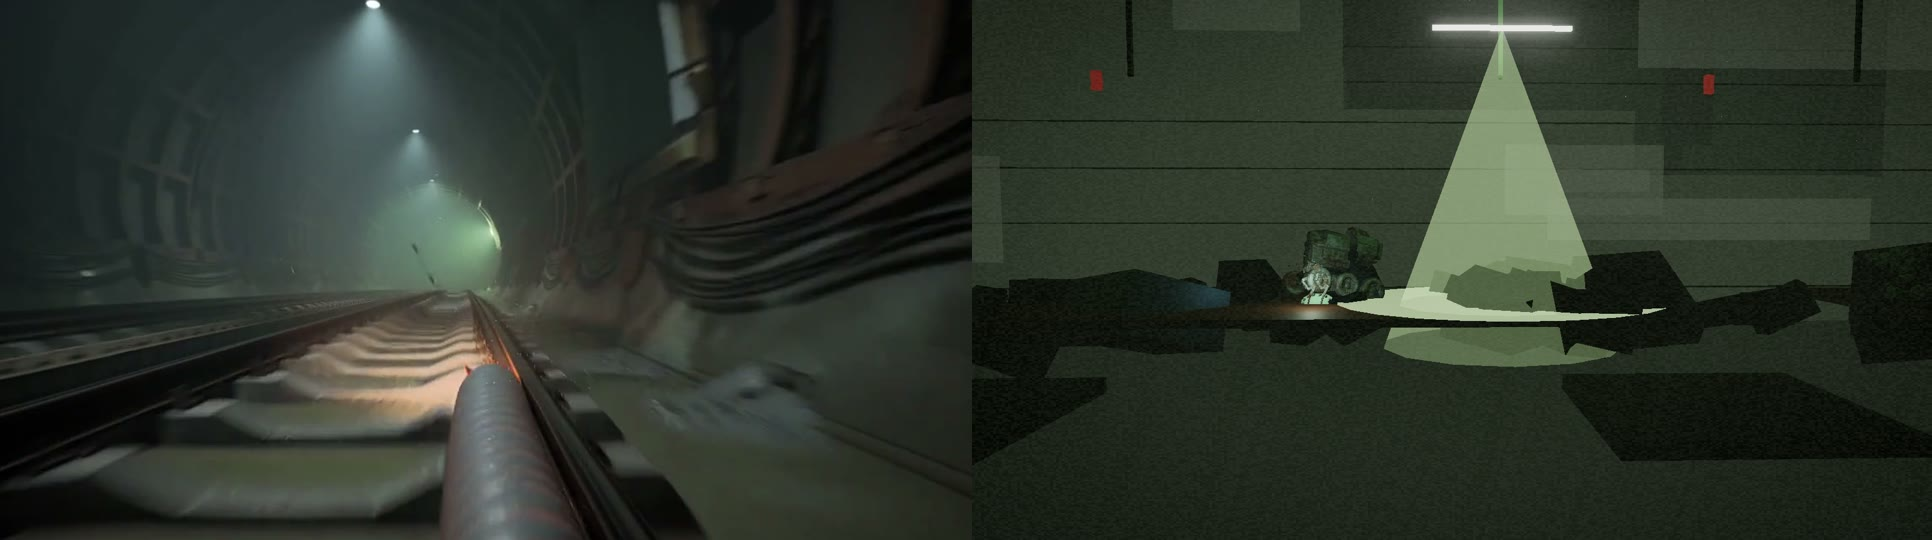
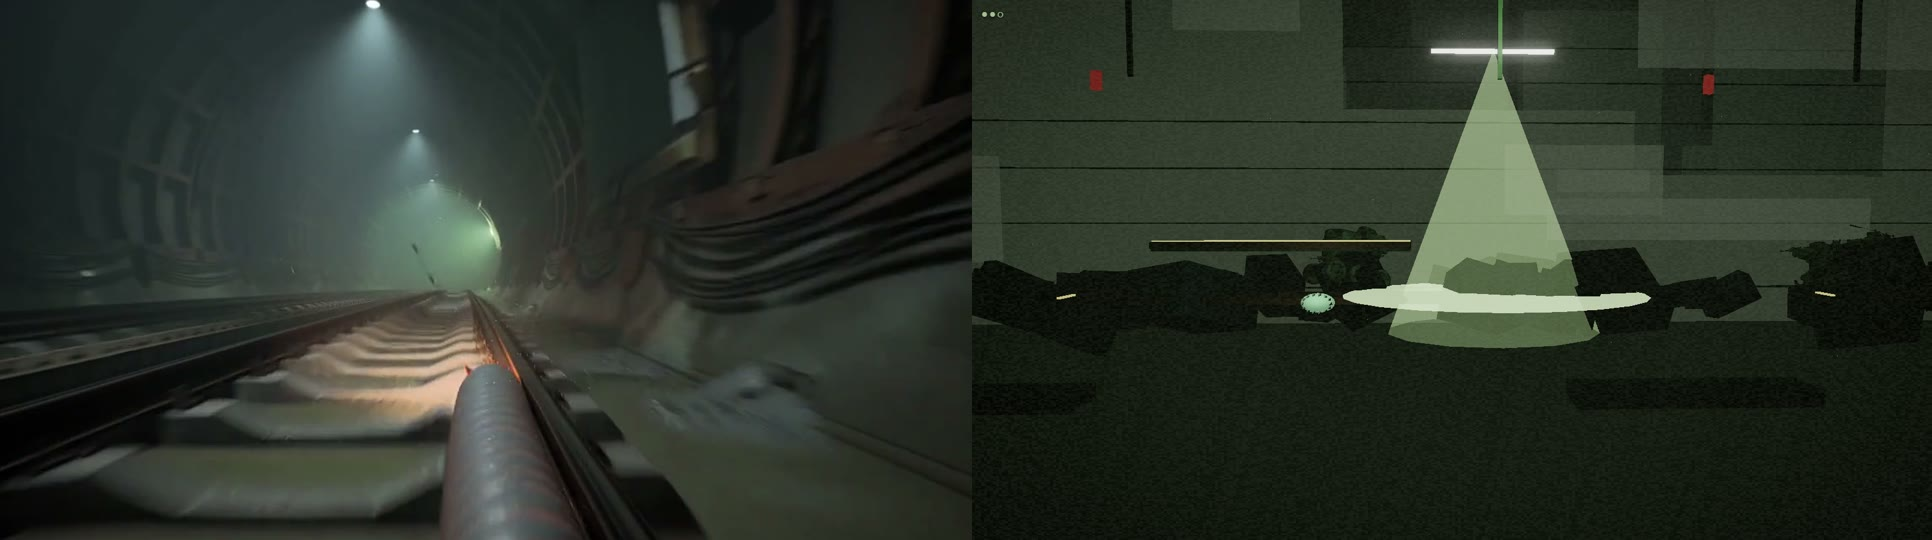
v0.0.1.38 tune(visual): reference-driven station grade reduces saturation 0.292 -> 0.186

Changed region(s): [[0.4969, 0.0, 1.0, 0.6815], [0.9938, 0.563, 1.0, 0.5926], [0.4969, 0.5926, 0.528, 0.6222]]

diff --git a/games/pingchuan-rail/game/index.html b/games/pingchuan-rail/game/index.html
@@ -94,7 +94,7 @@ const PALETTE = {
   concrete: 0x6b6259,  // 混凝土 / 烧结板块
   rust: 0x7a4a32,      // 锈蚀金属
   armor: 0x2a3b4d,     // 被能量武器贯穿后凝固的暗蓝
-  glowGreen: 0x7fbf7a, // 惨绿残余磷光
+  glowGreen: 0x9fb79a, // 淡化冷绿：只有灯管附近带色，避免全场染绿
   worm: 0x7fa88a,      // 蠕虫生物荧光
   cryo: 0xa8d8e8,      // 冷冻舱淡蓝
   fog: 0x5c6357,
@@ -205,7 +205,7 @@ const shaftMaterial = new THREE.MeshBasicMaterial({
   depthWrite: false, side: THREE.DoubleSide, blending: THREE.AdditiveBlending, toneMapped: false,
 });
 [[28, 7.5], [52, 7.5], [76, 7.5], [100, 6.8], [124, 6.8], [148, 6.8], [170, 8.0], [204, 19.0]].forEach(([lampX, lampY]) => {
-  const lamp = new THREE.PointLight(PALETTE.glowGreen, 26.0, 40, 2);
+  const lamp = new THREE.PointLight(0xb1b7aa, 26.0, 40, 2); // 灯管附近亮，光池保持中性灰
   lamp.position.set(lampX, lampY, 1.6);
   scene.add(lamp);
 
@@ -223,7 +223,7 @@ const shaftMaterial = new THREE.MeshBasicMaterial({
 
   // 地面光斑：一大片被照亮的区域，这是"有光源"最直接的证据
   const pool = new THREE.Mesh(new THREE.CircleGeometry(3.6, 24),
-    new THREE.MeshBasicMaterial({ color: 0xd6efc0, transparent: true, opacity: 0.55,
+    new THREE.MeshBasicMaterial({ color: 0xc7c5b8, transparent: true, opacity: 0.42,
       depthWrite: false, blending: THREE.AdditiveBlending, toneMapped: false }));
   pool.rotation.x = -Math.PI / 2;
   pool.position.set(lampX, (lampX > 96 ? 0.95 : 0.05), -1.0);
@@ -251,15 +251,17 @@ const gradePass = new ShaderPass({
     tDiffuse: { value: null }, uTime: { value: 0 },
     uLift: { value: new THREE.Vector3(0.012, 0.014, 0.010) },
     uGain: { value: new THREE.Vector3(1.02, 1.03, 0.97) },
-    uVignette: { value: 0.42 }, uGrain: { value: 0.011 },
+    uVignette: { value: 0.42 }, uGrain: { value: 0.011 }, uSaturation: { value: 1.0 },
   },
   vertexShader: 'varying vec2 vUv; void main(){ vUv = uv; gl_Position = projectionMatrix * modelViewMatrix * vec4(position,1.0); }',
   fragmentShader: `
-    uniform sampler2D tDiffuse; uniform float uTime, uVignette, uGrain; uniform vec3 uLift, uGain; varying vec2 vUv;
+    uniform sampler2D tDiffuse; uniform float uTime, uVignette, uGrain, uSaturation; uniform vec3 uLift, uGain; varying vec2 vUv;
     float hash(vec2 p){ return fract(sin(dot(p, vec2(12.9898, 78.233))) * 43758.5453); }
     void main(){
       vec3 color = texture2D(tDiffuse, vUv).rgb;
       color = color * uGain + uLift;
+      float gray = dot(color, vec3(0.299, 0.587, 0.114));
+      color = mix(vec3(gray), color, uSaturation);
       color *= 1.0 - uVignette * smoothstep(0.35, 0.95, length(vUv - 0.5) * 1.25);
       // 粗颗粒：先量化到 ~320 格再取噪声，避免逐像素白点像雪花
       color += (hash(floor(vUv * 320.0) + floor(uTime * 12.0)) - 0.5) * uGrain;
@@ -502,7 +504,7 @@ for (let index = 0; index < 4; index += 1) {
   frame.position.set(x, 3.4, -3.2);
   scene.add(frame);
   const panel = new THREE.Mesh(new THREE.PlaneGeometry(2.9, 1.7),
-    new THREE.MeshBasicMaterial({ color: 0x8fa08a, transparent: true, opacity: 0.16, toneMapped: false }));
+    new THREE.MeshBasicMaterial({ color: 0x8e9289, transparent: true, opacity: 0.12, toneMapped: false }));
   panel.position.set(x, 3.4, -3.05);
   scene.add(panel);
 }
@@ -1523,6 +1525,8 @@ function frame() {
   });
   dustField.position.x = camera.position.x * 0.35;
   gradePass.uniforms.uTime.value += deltaSeconds;
+  // 参考片驱动：站台段降饱和，灯附近留色；隧道与竖井保留原设定。
+  gradePass.uniforms.uSaturation.value = worm.position.x < 96 ? 0.65 : 1.0;
   composer.render();
   requestAnimationFrame(frame);
 }

diff --git a/games/pingchuan-rail/SPEC.md b/games/pingchuan-rail/SPEC.md
@@ -393,6 +393,22 @@ MOSS 从"完全没有光"（高光 0.002）变成有光（0.007），但把 `#7f
 所以：**MVP 单关纯跑约 45 秒，新手含试错 2–3 分钟**。README 里"3–5 分钟"已删掉，
 那是正式作品的时长目标。要拉长的话有两条路（都没做）：①站台再加 60–80 m 与两层夹层；
 ②把粉尘速度降到 3.2 m/s（但会变闷，需要试玩确认）。
+## 9.10 参考片驱动的站台色彩校准（2026-11-16）
+
+参考片：`assets/video/ref_station_test.mp4`。用 `clip_compare.py` 对齐参考片与候选片；站台截图用同一套 `palette_report` 口径。
+
+| 指标 | 参考 | 调整前 | 调整后 |
+|---|---:|---:|---:|
+| 饱和 | 0.170 | 0.292 | **0.186** |
+| 对比 | 137.2 | 123.4 | 123.4 |
+| 高光 | 0.008 | 0.016 | 0.009 |
+| 细节 | 0.0173 | 0.0160 | 0.0156 |
+| 熵 | 3.21 | 3.68 | 3.67 |
+
+改法不是继续调灯，而是增加**按场景段的色彩 grade**：站台 `uSaturation=0.65`，隧道/竖井保持 1.0。
+结果：绿色不再染满站台，同时高光保持接近参考。对比仍差 13.8；继续拉高会牺牲暗部可读性，暂不硬追。
+
+这确立了后续闭环：参考视频 → 固定采样 → `clip_compare.py` → 只改代码 → 机器判据复测。
 ## 10. 验收（做完了的判据）
 
 - [ ] 三个固定位置（站台、轨道深沟、竖井）都有"参考视频 | 游戏"并排图

diff --git a/CHANGELOG.md b/CHANGELOG.md
@@ -43,7 +43,3 @@ rank_take.py 选出最活窗口 **12.5–18.5 s**（分数 0.0751），已切出
 - **诚实记录**：AI 生成的"无缝平铺"贴图并不无缝（左右边差 17.1、上下 18.1 / 255）。
   残骸尺度小看不出；若贴墙/地面需改镜面平铺或加噪声打散。
 - 也记录一个反直觉点：贴图只占 85 KB，GLB 从 0.9 MB 涨到 1.24 MB 是 UV + 重网格带来的几何增长。
-- **更正**：前两个提交里说"GLB 已入库"是错的——`.gitignore` 的 `*.glb` 把它们吞了，仓库里根本没有模型。
-  已补例外 `!games/*/game/assets/**`，现在三件 GLB 真正入库（跟踪文件 10.6 MB）。
-
-## 0.0.1.18 — 三件残骸入库并接进原型
